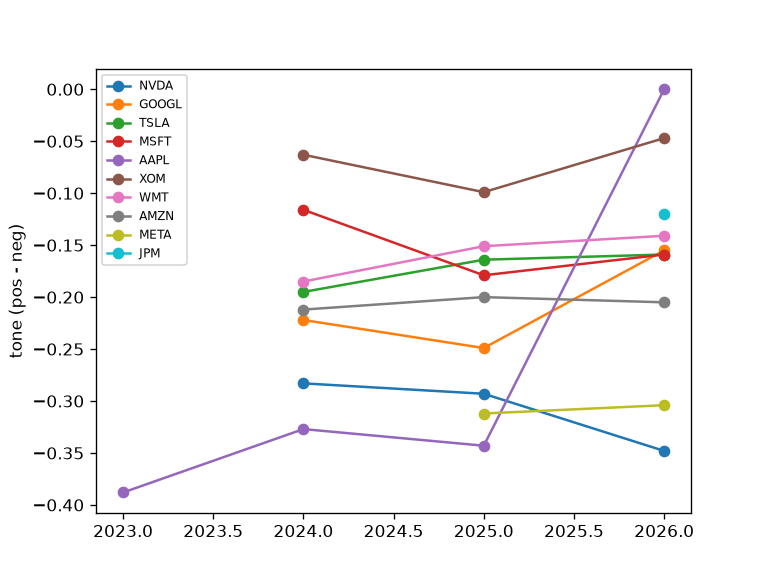
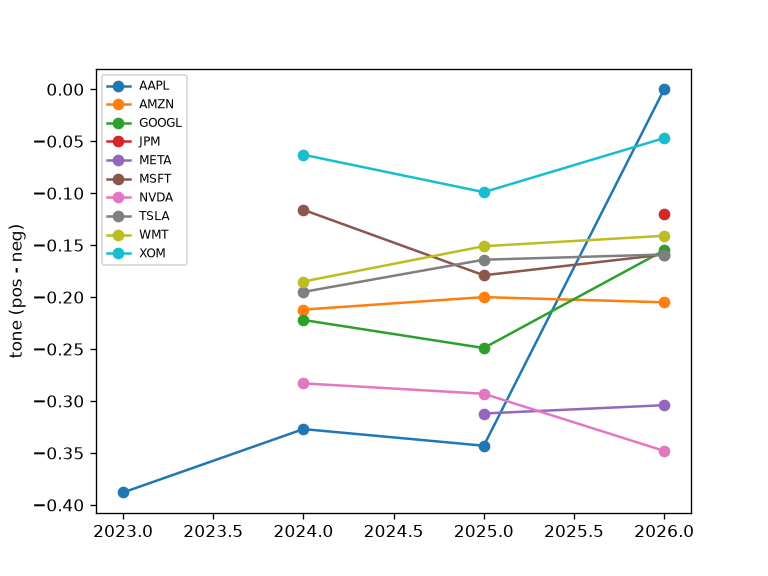
feat: enhance anomaly detection and notification system with Telegram alerts chore: update GitHub Actions workflows for improved scheduling and PR automation fix: refactor file paths for data handling in scripts docs: update README for clarity and add environment variable instructions

diff --git a/scripts/notify.py b/scripts/notify.py
@@ -1,10 +1,71 @@
 import os, json, requests
 from pathlib import Path
 
+BASE_DIR = Path(__file__).resolve().parent
+SCORES = BASE_DIR / "data" / "scores"
+STATE = BASE_DIR / "data" / "state"; STATE.mkdir(parents=True, exist_ok=True)
+MEAS = BASE_DIR / "measurements"
+NOTIFIED_PATH = STATE / "notified.json"
+
+def _load_notified() -> set:
+    """Load the set of already notified anomaly keys to avoid duplicate alerts"""
+    if NOTIFIED_PATH.exists():
+        return set(json.loads(NOTIFIED_PATH.read_text(encoding="utf-8")))
+    return set()
+
+def _save_notified(keys: set):
+    NOTIFIED_PATH.write_text(json.dumps(sorted(keys), indent=2), encoding="utf-8")
+
+def _send_telegram(token: str, chat: str, ticker: str, anomaly: dict):
+    """Send a single anomaly alert to Telegram. Non blocking on failure"""
+    snippet = (anomaly.get("worst_snippet") or "No context available").replace("*", "").replace("_", "")
+    text = (
+        "⚠ *SEC 8-K Tone Anomaly Alert*\n\n"
+        f"*Ticker:* `{ticker}` ({anomaly['year']})\n"
+        f"*Z-Score:* `{anomaly['z']}` | *Drift:* `{anomaly.get('drift', 'N/A')}`\n\n"
+        f"*Key Negative Excerpt:*\n> _{snippet}_"
+    )
+    try:
+        r = requests.post(
+            f"https://api.telegram.org/bot{token}/sendMessage",
+            json={"chat_id": chat, "text": text, "parse_mode": "Markdown"},
+            timeout=15,
+        )
+        r.raise_for_status()
+        print(f"  [SUCCESS] Alert sent for {ticker} ({anomaly['year']})")
+    except Exception as e:
+        # Non blocking: log the error but never crash the pipeline
+        print(f"  [WARNING] Failed to send alert for {ticker}: {e}")
+
 def run():
     token = os.environ.get("TELEGRAM_TOKEN")
     chat = os.environ.get("TELEGRAM_CHAT")
-    
+
     if not token or not chat:
-        print("Notifications are disabled for now")
-        return  
+        print("[INFO] Notifications disabled (missing secrets)")
+        return
+
+    # Load anomaly report generated by anomalies.py
+    report_path = MEAS / "anomalies.json"
+    if not report_path.exists():
+        print("[INFO] No anomaly report found, skipping notifications")
+        return
+
+    report = json.loads(report_path.read_text(encoding="utf-8"))
+    notified = _load_notified()
+    new_count = 0
+
+    for ticker, events in report.items():
+        for anomaly in events:
+            key = f"{ticker}_{anomaly['year']}"
+            if key in notified:
+                continue  # Already sent, skip duplicate
+            _send_telegram(token, chat, ticker, anomaly)
+            notified.add(key)
+            new_count += 1
+
+    _save_notified(notified)
+    print(f"[INFO] Notifications complete: {new_count} new alert(s) sent")
+
+if __name__ == "__main__":
+    run()

diff --git a/scripts/analyze_tone.py b/scripts/analyze_tone.py
@@ -3,14 +3,32 @@ from pathlib import Path
 from transformers import pipeline
 from common import chunk_text, tone_from_labels
 
-RAW = Path("data/raw")
-SCORES = Path("data/scores"); SCORES.mkdir(parents=True, exist_ok=True)
+BASE_DIR = Path(__file__).resolve().parent
+RAW = BASE_DIR / "data" / "raw"
+SCORES = BASE_DIR / "data" / "scores"; SCORES.mkdir(parents=True, exist_ok=True)
 clf = pipeline("sentiment-analysis", model="ProsusAI/finbert")  # open source  
 
 def score_file(path: Path) -> dict:
     chunks = chunk_text(path.read_text(encoding="utf-8"))
-    labels = [r["label"] for r in clf(chunks, batch_size=8, truncation=True)]
-    return tone_from_labels(labels)
+    results = clf(chunks, batch_size=8, truncation=True)
+    labels = [r["label"] for r in results]
+    scores = tone_from_labels(labels)
+
+    # Extract the chunk with highest negative confidence as context snippet
+    worst_score, worst_idx = 0.0, -1
+    for i, r in enumerate(results):
+        if r["label"] == "negative" and r["score"] > worst_score:
+            worst_score, worst_idx = r["score"], i
+
+    if worst_idx >= 0:
+        snippet = chunks[worst_idx][:150]
+        if len(chunks[worst_idx]) > 150:
+            snippet += "..."
+        scores["worst_snippet"] = snippet
+    else:
+        scores["worst_snippet"] = "No negative content detected"
+
+    return scores
 
 def run():
     for txt in sorted(RAW.glob("*.txt")):

diff --git a/scripts/anomalies.py b/scripts/anomalies.py
@@ -3,7 +3,9 @@ from pathlib import Path
 import matplotlib; matplotlib.use("Agg")
 import matplotlib.pyplot as plt
 
-SCORES = Path("data/scores"); MEAS = Path("measurements"); MEAS.mkdir(exist_ok=True)
+BASE_DIR = Path(__file__).resolve().parent
+SCORES = BASE_DIR / "data" / "scores"
+MEAS = BASE_DIR / "measurements"; MEAS.mkdir(exist_ok=True)
 
 def load_all() -> dict:
     out = {}
@@ -19,7 +21,8 @@ def detect(history: dict) -> list:
     mean, sd = statistics.mean(tones), statistics.pstdev(tones) or 1e-9
     return [{"year": y,
              "z": round((history[y]["tone"] - mean) / sd, 2),
-             "drift": history[y].get("drift_vs_prev")}
+             "drift": history[y].get("drift_vs_prev"),
+             "worst_snippet": history[y].get("worst_snippet", "")}
             for y in sorted(history)
             if "tone" in history[y]
             and (abs((history[y]["tone"] - mean) / sd) >= 1.5

diff --git a/scripts/fetch_text.py b/scripts/fetch_text.py
@@ -3,7 +3,8 @@ from bs4 import BeautifulSoup
 from pathlib import Path
 from common import UA, COMPANIES
 
-RAW = Path("data/raw"); RAW.mkdir(parents=True, exist_ok=True)
+BASE_DIR = Path(__file__).resolve().parent
+RAW = BASE_DIR / "data" / "raw"; RAW.mkdir(parents=True, exist_ok=True)
 
 def recent_8ks(cik: str, n: int = 2) -> list:
     d = requests.get(f"https://data.sec.gov/submissions/CIK{cik}.json",

diff --git a/scripts/drift.py b/scripts/drift.py
@@ -4,7 +4,8 @@ from pathlib import Path
 from sentence_transformers import SentenceTransformer
 from common import chunk_text, COMPANIES
 
-RAW = Path("data/raw"); SCORES = Path("data/scores")
+BASE_DIR = Path(__file__).resolve().parent
+RAW = BASE_DIR / "data" / "raw"; SCORES = BASE_DIR / "data" / "scores"
 model = SentenceTransformer("all-MiniLM-L6-v2")  
 
 def doc_vector(path: Path) -> np.ndarray:

diff --git a/README.md b/README.md
@@ -1,8 +1,9 @@
-# Filing Tone: Automated Financial Sentiment & Narrative Drift in SEC 8K Disclosures
+# Filing Tone: Automated Financial Sentiment and Narrative Drift in SEC 8K Disclosures
 
 [![Python](https://img.shields.io/badge/Python-3.12-3776AB?style=flat-square&logo=python&logoColor=white)](https://www.python.org/)
 [![Model](https://img.shields.io/badge/NLP-FinBERT-FFD21E?style=flat-square&logo=huggingface&logoColor=black)](https://huggingface.co/ProsusAI/finbert)
 [![Embeddings](https://img.shields.io/badge/Embeddings-Sentence--Transformers-blue?style=flat-square)](https://sbert.net/)
+[![Alerts](https://img.shields.io/badge/Alerts-Telegram-2CA5E0?style=flat-square&logo=telegram&logoColor=white)](https://core.telegram.org/bots/api)
 [![CI/CD](https://img.shields.io/badge/CI%2FCD-GitHub%20Actions-2088FF?style=flat-square&logo=githubactions&logoColor=white)](https://github.com/features/actions)
 [![License](https://img.shields.io/badge/License-MIT-green.svg?style=flat-square)](LICENSE)
 
@@ -10,34 +11,37 @@
 
 ## Abstract
 
-**Filing Tone** is an autonomous, serverless computational framework for longitudinal financial text mining. The system continuously ingests unscheduled material event disclosures (Form 8K) from the U.S. Securities and Exchange Commission (SEC) EDGAR system, extracts sentence level financial sentiment via domain adapted transformer models (FinBERT), and tracks semantic narrative drift over time using dense vector representations. Statistical outliers are identified via z-score thresholds and persisted automatically using a Git as a Datastore paradigm.
+**Filing Tone** is an autonomous, serverless computational framework for longitudinal financial text mining. The system continuously ingests unscheduled material event disclosures (Form 8K) from the U.S. Securities and Exchange Commission (SEC) EDGAR system, extracts sentence level financial sentiment via domain adapted transformer models (FinBERT), and tracks semantic narrative drift over time using dense vector representations. Statistical outliers are identified via standardized z score thresholds, augmented with maximal negative contextual excerpts, and dispatched via idempotent real time event notifications while state and model artifacts are persisted under a Git as a Datastore paradigm.
 
----
 
 ## Methodology and Mathematical Formulation
 
-The pipeline operates in five deterministic stages:
+The pipeline operates in six deterministic stages:
 
 ### 1. Regulatory Ingestion (`fetch_text.py`)
-Polls the SEC EDGAR Submissions API for active target issuers (e.g., AAPL, MSFT, NVDA). Documents are sanitized by stripping non-informative HTML markup, scripts, and tabular exhibits to isolate executive prose
+Polls the SEC EDGAR Submissions API for active target issuers (e.g., AAPL, MSFT, NVDA). Documents are sanitized by stripping uninformative HTML markup, scripts, and tabular exhibits to isolate executive prose.
 
-### 2. Financial Sentiment Extraction (`analyze_tone.py`)
+### 2. Financial Sentiment and Contextual Extraction (`analyze_tone.py`)
 Text is partitioned into sentence chunks $C = \{c_1, c_2, \dots, c_n\}$ and classified via **FinBERT** (`ProsusAI/finbert`). Let $L(c_i) \in \{\text{positive}, \text{negative}, \text{neutral}\}$ denote the assigned polarity. Aggregate tone is computed as:
 
 $$\text{Tone} = \frac{1}{|C|} \sum_{i=1}^{|C|} \mathbf{1}_{\{L(c_i) = \text{positive}\}} - \frac{1}{|C|} \sum_{i=1}^{|C|} \mathbf{1}_{\{L(c_i) = \text{negative}\}} = \frac{N_{\text{pos}} - N_{\text{neg}}}{N_{\text{total}}}$$
 
-where $\text{Tone} \in [-1.0, 1.0]$.
+where $\text{Tone} \in [-1.0, 1.0]$. To preserve interpretability, the pipeline extracts the most salient negative chunk $c^*$ defined by maximum negative posterior confidence:
+
+$$c^* = \arg\max_{c_i \in C, \, L(c_i) = \text{negative}} P(\text{negative} \mid c_i)$$
+
+The resulting excerpt is bounded to 150 characters to furnish immediate qualitative evidence (`worst_snippet`).
 
 ### 3. Narrative Semantic Drift (`drift.py`)
 Each document $D$ is embedded into a dense latent representation $\mathbf{v} \in \mathbb{R}^{384}$ using **Sentence Transformers** (`all-MiniLM-L6-v2`) via mean pooling across sentence chunks:
 
 $$\mathbf{v} = \frac{1}{|C|} \sum_{k=1}^{|C|} \text{Encoder}(c_k)$$
 
-The semantic narrative drift between consecutive filings at periods $t$ and $t 1$ is quantified by the cosine distance:
+The semantic narrative drift between consecutive filings at periods $t$ and $t-1$ is quantified by the cosine distance:
 
 $$\text{Drift}(t, t-1) = 1 - \frac{\mathbf{v}_t \cdot \mathbf{v}_{t-1}}{\|\mathbf{v}_t\|_2 \|\mathbf{v}_{t-1}\|_2}$$
 
-where $\text{Drift} \in [0.0, 2.0]$, with higher values indicating radical narrative restructuring
+where $\text{Drift} \in [0.0, 2.0]$, with higher values indicating radical narrative restructuring.
 
 ### 4. Statistical Anomaly Detection (`anomalies.py`)
 For an issuer's historical longitudinal tone series $\mathcal{T} = \{\text{Tone}_t\}_{t=1}^T$, we compute the empirical mean $\mu$ and standard deviation $\sigma$:
@@ -52,8 +56,13 @@ An 8K disclosure is classified as an anomalous event under the decision rule:
 
 $$\text{Anomaly}(t) = \begin{cases} 1 & \text{if } |z_t| \ge 1.5 \;\;\lor\;\; \text{Drift}(t, t-1) \ge 0.5 \\ 0 & \text{otherwise} \end{cases}$$
 
-### 5. Autonomous GitOps Persistence (`.github/workflows/analyze.yml`)
-A scheduled GitHub Actions runner executes the analysis every 24 hours. Validated model outputs and figures are versioned directly into the repository by `github-actions[bot]`
+### 5. Idempotent Real Time Event Dispatch (`notify.py`)
+When $\text{Anomaly}(t) = 1$, the event dispatcher constructs an institutional-grade alert payload containing the target issuer, year, metric telemetry $(z_t, \text{Drift})$, and the qualitative excerpt $c^*$. 
+
+To ensure strict idempotence across continuous pipeline executions, notified events are committed to a deduplication ledger $\mathcal{K} \subset \text{Issuer} \times \text{Year}$ serialized at `data/state/notified.json`. Non blocking exception boundaries prevent upstream workflow abortion in the event of transient network partitions.
+
+### 6. Autonomous GitOps Persistence (`.github/workflows/analyze.yml`)
+A scheduled GitHub Actions runner executes the analysis daily (configured at 02:23 UTC to avoid peak queue latency following EDGAR closure). Validated model outputs, state ledgers, and figures are versioned directly into the repository by `github-actions[bot]`
 
 ---
 
@@ -68,14 +77,17 @@ filing-tone/
 │   ├── run_all.py           # Pipeline orchestrator
 │   ├── common.py            # Sentence chunking and metric definitions
 │   ├── fetch_text.py        # SEC EDGAR ingestion module
-│   ├── analyze_tone.py      # FinBERT sentiment classification
-│   ├── drift.py             # Sentence-BERT semantic drift evaluation
-│   ├── anomalies.py         # Statistical anomaly filter & plot generator
-│   ├── notify.py            # Event notification handler
-│   ├── data/scores/         # Serialized filing score metrics (JSON)
+│   ├── analyze_tone.py      # FinBERT sentiment classification and context extraction
+│   ├── drift.py             # Sentence Transformers semantic drift evaluation
+│   ├── anomalies.py         # Statistical anomaly filter and plot generator
+│   ├── notify.py            # Event notification handler with deduplication
+│   ├── data/
+│   │   ├── scores/          # Serialized filing score metrics (JSON)
+│   │   └── state/           # Deduplication ledger (notified.json)
 │   └── measurements/        # Anomaly summaries and generated figures
 ├── tests/
 │   └── test_common.py       # Unit test suite
+├── .env.example             # Template for optional Telegram credentials
 └── requirements.txt         # Environment dependencies
 ```
 
@@ -88,11 +100,14 @@ filing-tone/
 git clone https://github.com/JoelDev13/filing-tone.git
 cd filing-tone
 pip install -r requirements.txt
+
+# Optional: Configure real time Telegram alerts
+cp .env.example .env
+# Set TELEGRAM_TOKEN and TELEGRAM_CHAT in .env
 ```
 
----
 
 ## References
 
-- Araci, D. (2019). *FinBERT: Financial Sentiment Analysis with Pre-trained Language Models*. arXiv preprint [arXiv:1908.10063](https://arxiv.org/abs/1908.10063).
-.
+- Araci, D. (2019). *FinBERT: Financial Sentiment Analysis with Pretrained Language Models*. arXiv preprint [arXiv:1908.10063](https://arxiv.org/abs/1908.10063).
+- Reimers, N., and Gurevych, I. (2019). *Sentence BERT: Sentence Embeddings using Siamese BERT Networks*. In Proceedings of EMNLP [arXiv:1908.10084](https://arxiv.org/abs/1908.10084).
